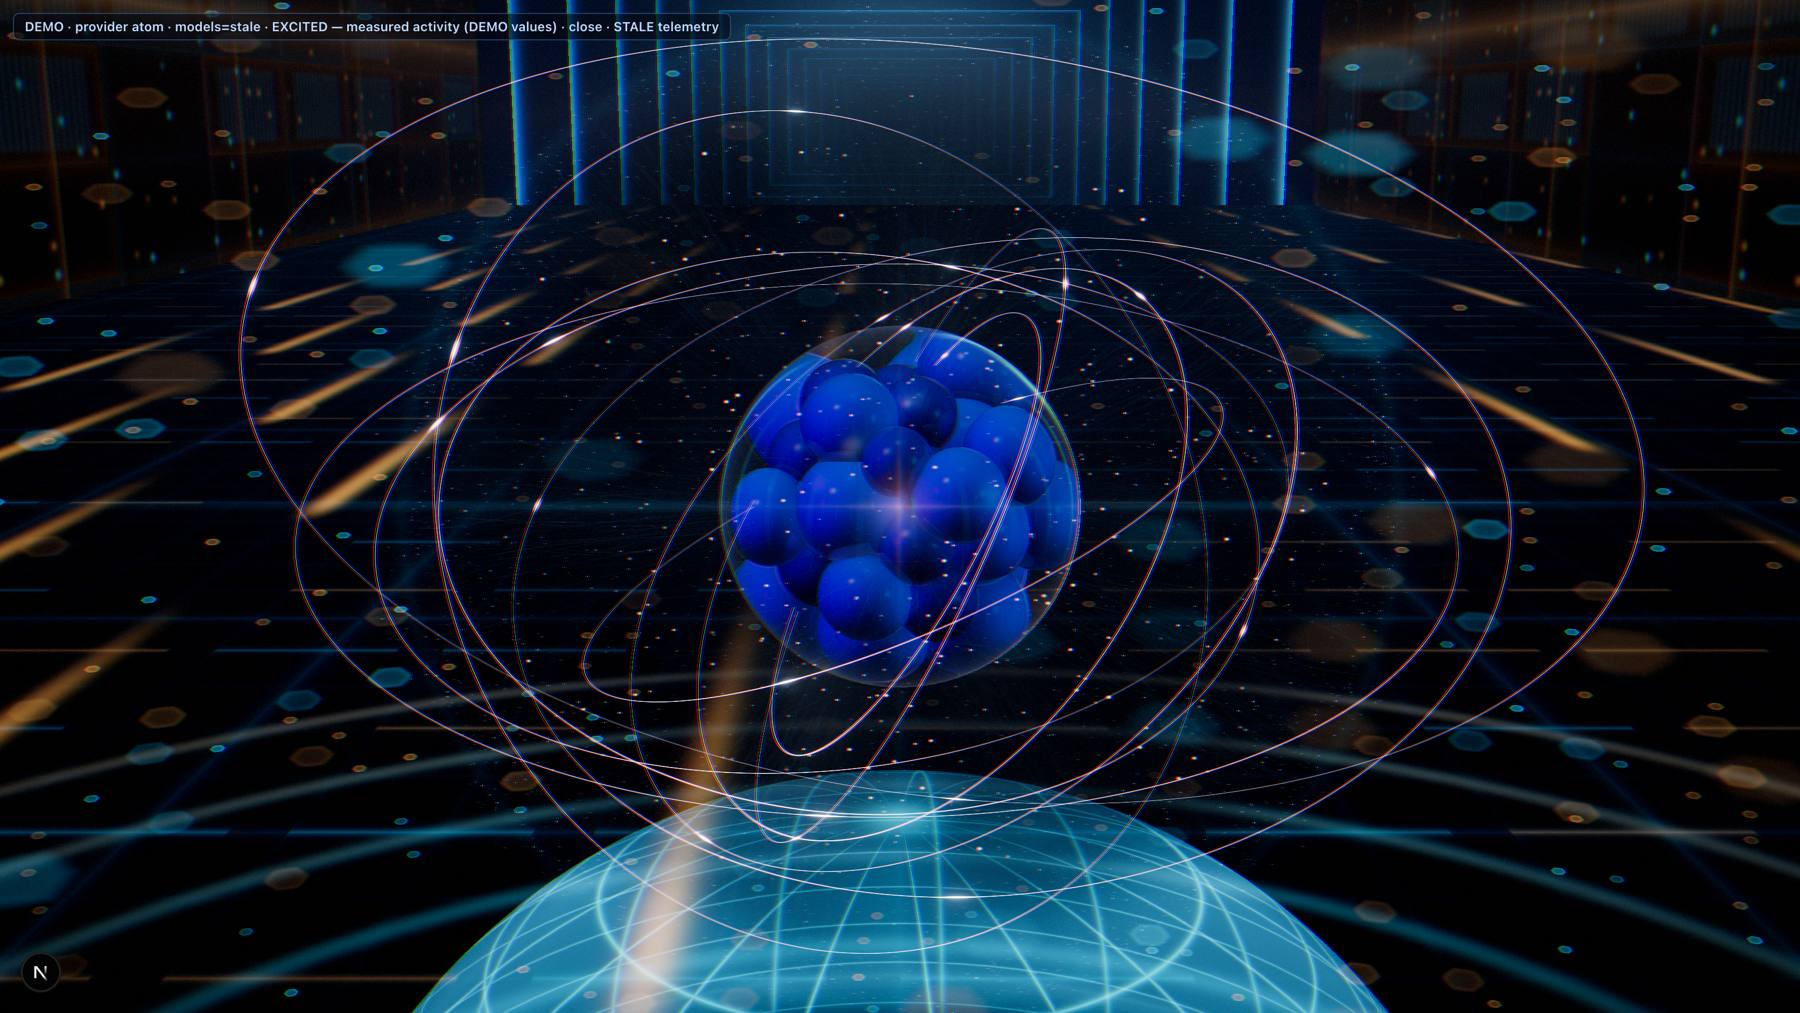
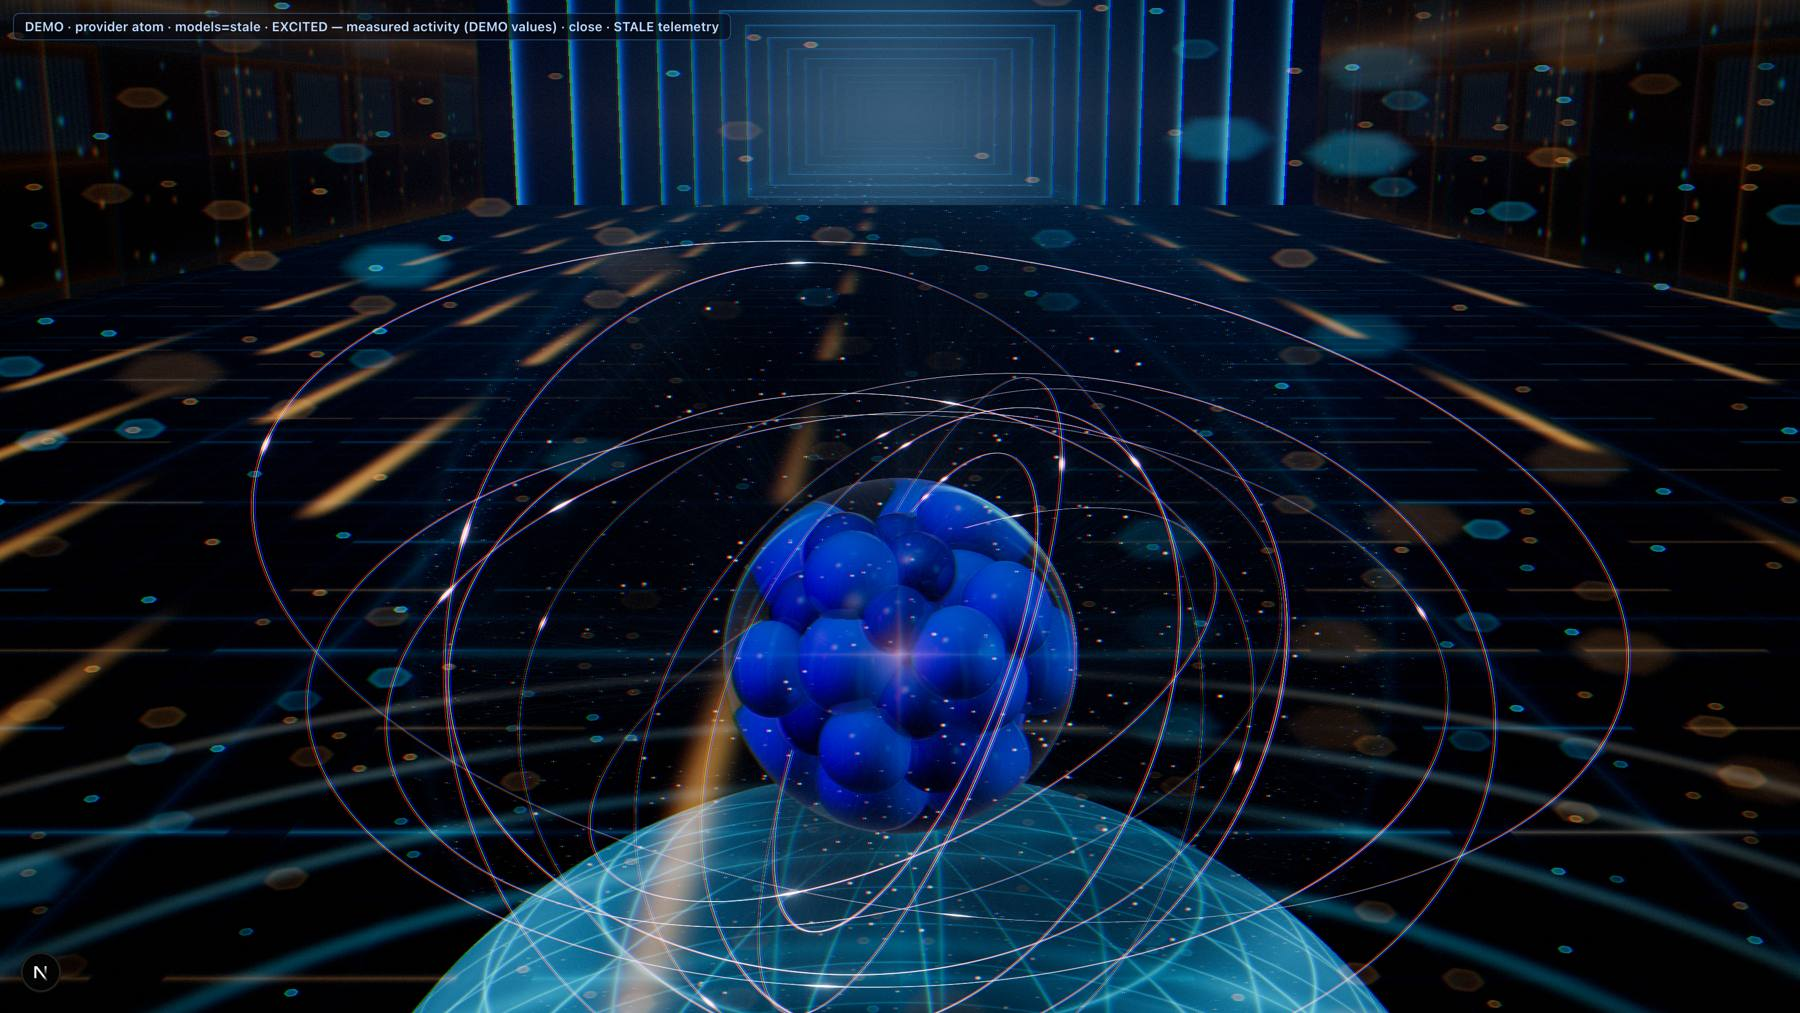
feat(atomic-topology): gate A r11 overdraw-normalised far atoms, seated idle cloud
Addresses gateA-r2 (round-3 pass) findings:
1. Excited wash in pair / 20 / 32-atom frames: projected-size "crowd"
   normaliser on strands (linear), motes (squared), wires and core glow;
   trimmed far gains. Default and close views unchanged (crowd = 1).
2. Idle cloud floated above its dome: group y lowered by the radius the
   tightened cloud gives up, seating it on the pedestal.
3. 32-atom p95/p99 tail recorded as blocking Gate B task C7a (draw
   batching) in plan.md.
4. GATE_A.md re-scored on r11 images (6 rows) with idea5 side-by-sides,
   incl. idle-vs-excited, count20, count32.

Ran: node --import tsx/esm --test tests/unit/atomic-topology/*.test.ts:
437 tests, 436 pass, 0 fail, 1 skipped; typecheck:core 0 atomic-topology
errors (45 pre-existing elsewhere); lint 7 pre-existing errors outside
plugin; 21/21 captures ok (M5 Max, headed Chrome, WebGPU apple/metal-3,
WebGL2 fallback); uncapped p50/p95/p99: default 2.7/3.1/11.9, close
8.1/8.5/26.5, 20 atoms 8.0/11.2/43.9, 32 atoms 11.2/30.3/67.1 ms.

diff --git a/src/plugins/atomic-topology/scene/rt/rtAtom.ts b/src/plugins/atomic-topology/scene/rt/rtAtom.ts
@@ -133,6 +133,7 @@ export function createRtAtom(
   const wiresDef: OrbitWire[] = orbitWires(seed, opts.wireCount ?? 11);
   const group = new Group();
   group.position.set(...opts.position);
+  const seatBaseY = opts.position[1];
 
   const uniforms = createAtomUniforms();
   const material = createAtomMaterial(uniforms);
@@ -433,7 +434,6 @@ export function createRtAtom(
   const viewDir = new Vector3();
 
   function update(f: RtAtomFrame): void {
-    group.getWorldPosition(worldCenter);
     const params = clampShaderParams({
       marchSteps: f.marchSteps,
       exposure: 1,
@@ -445,6 +445,11 @@ export function createRtAtom(
       orbitalWeights: orbitals.map((o) => o.weight),
       phase: f.phase,
     });
+    // Seat the (smaller, idle) cloud on its pedestal: the full-size cloud's base
+    // is the reference, so a tightened cloud drops by the radius it gave up.
+    group.position.y = seatBaseY - (CLOUD_BOUND_RADIUS - params.cloudRadius);
+    group.updateMatrixWorld(true);
+    group.getWorldPosition(worldCenter);
     f.camera.matrixWorld.extractBasis(camRight, camUp, tmp);
     // Nucleus spin (measured-TPS driven by the caller; static when 0).
     rot.setFromAxisAngle(axis, f.spinAngle);
@@ -467,6 +472,9 @@ export function createRtAtom(
     }
     const dist = f.camera.position.distanceTo(worldCenter);
     const cr = params.cloudRadius;
+    // Projected size vs the default single-atom view (dist 255 at full radius):
+    // hairline/mote overlap per pixel grows as the atom shrinks on screen.
+    const crowd = Math.min(1, Math.max(0.15, 255 / CLOUD_BOUND_RADIUS / (dist / cr)));
     // Close range: bolts/streak back off so they never dominate the frame.
     const farK = Math.min(1, Math.max(0, (dist / cr - 3.2) / 3.3));
     const closeK = Math.min(
@@ -511,7 +519,11 @@ export function createRtAtom(
     (wireU.scale as any).value = (params.cloudRadius / CLOUD_BOUND_RADIUS) * 1.18;
     (wireU.pxScale as any).value = pxScale;
     (wireU.time as any).value = f.phase * 2.2;
-    (wireU.energy.value as Vector3).set(0.35 + 0.9 * params.brightness, params.saturation, 0);
+    (wireU.energy.value as Vector3).set(
+      (0.35 + 0.9 * params.brightness) * crowd,
+      params.saturation,
+      0
+    );
     (wireU.occluderCenter.value as Vector3).copy(worldCenter);
     (wireU.tint.value as Vector3).copy(uniforms.rim.value as Vector3);
     let eIdx = 0;
@@ -530,6 +542,7 @@ export function createRtAtom(
     (strandU.center.value as Vector3).copy(worldCenter);
     (strandU.cloudR as any).value = cr;
     (strandU.far as any).value = farK;
+    (strandU.crowd as any).value = crowd;
     (strandU.rootR as any).value = Math.min(0.4, (nucExtent * 0.8) / cr);
     (strandU.pxScale as any).value = pxScale;
     (strandU.energy.value as Vector3).set(params.excitation, params.saturation, params.brightness);
@@ -544,7 +557,8 @@ export function createRtAtom(
     // Quad sized to the visible band only (fill cost: it is additive over MSAA HDR).
     streak.scale.set(cr * 6, cr * 0.16, 1);
     glow.scale.set(cr * 0.62, cr * 0.62, 1);
-    glowK.value = (0.3 + 1.3 * params.excitation) * params.brightness * (1 + 0.8 * farK);
+    glowK.value =
+      (0.3 + 1.3 * params.excitation) * params.brightness * (1 + 0.3 * farK) * Math.sqrt(crowd);
     ring.scale.set((2 * reach * cr) / 0.9, (2 * reach * cr) / 0.9, 1);
     ringK.value = (0.3 + 0.7 * params.excitation) * params.brightness;
     // Decorative differential swirl: rate rises with energy, never encodes

diff --git a/src/plugins/atomic-topology/scene/shaders/plasmaStrands.ts b/src/plugins/atomic-topology/scene/shaders/plasmaStrands.ts
@@ -99,6 +99,7 @@ export function createStrandUniforms(): StrandUniforms {
     swirl: uniform(0),
     lifeOn: uniform(1),
     far: uniform(0),
+    crowd: uniform(1),
   };
 }
 
@@ -283,11 +284,12 @@ export function createStrandMaterial(u: StrandUniforms, mirror = false): MeshBas
     // Bright cyan tip cap: strand ends form the luminous silhouette of the cloud.
     const tipCap = smoothstep(0.84, 0.97, tV).mul(1.8).add(1);
     const k = float(0.2)
-      .add(exc.mul(0.9))
+      .add(exc.mul(0.45))
       .mul(gmV.mul(0.8).add(0.2))
       .mul(tipCap)
       .mul(bri)
-      .mul((u.far as any).mul(2.6).add(1))
+      .mul((u.far as any).mul(1.2).add(1))
+      .mul(u.crowd as any)
       .mul(flick.mul(0.55).add(0.45).add(pulse))
       .mul(fade)
       .mul(depth)
@@ -350,7 +352,8 @@ export function createSparkleMaterial(u: StrandUniforms): MeshBasicNodeMaterial 
       .mul(bri)
       .mul(vis)
       .mul(mix(float(5.5), float(16), kindV))
-      .mul((u.far as any).mul(1.3).add(1));
+      .mul((u.far as any).mul(0.5).add(0.8))
+      .mul((u.crowd as any).mul(u.crowd as any));
     return vec4(grade(col, sat).mul(k), 1);
   })();
   return finish(material);

diff --git a/scripts/ad-hoc/atomic-gateA-compose.py b/scripts/ad-hoc/atomic-gateA-compose.py
@@ -8,7 +8,7 @@ ref = Image.open(sys.argv[2]).convert("RGB")
 pairs = {"default-3c": "gateA-provider-default-3c", "close-3c": "gateA-provider-close-3c",
          "hub-close": "gateA-hub-close", "hub-default": "gateA-hub-default",
          "idle-vs-excited": "gateA-idle-vs-excited", "az90": "gateA-3c-az90",
-         "unknown-close": "gateA-provider-close-unknown", "webgl2": "gateA-webgl2-fallback"}
+         "unknown-close": "gateA-provider-close-unknown", "webgl2": "gateA-webgl2-fallback", "count20": "gateA-count20", "count32": "gateA-count32"}
 os.makedirs(f"{d}/preview", exist_ok=True)
 for k, src in pairs.items():
     im = Image.open(f"{d}/{src}.png").convert("RGB")

diff --git a/OR_ATOM_010_RAYTRACED/GATE_A.md b/OR_ATOM_010_RAYTRACED/GATE_A.md
@@ -23,6 +23,38 @@ Capture (headed Chrome, real GPU, never headless): `scripts/ad-hoc/pw-atomic-gat
 - Post (`rendererFactory.ts`): HDR scene pass, bloom (threshold 1.0), edge RGB shift, split-tone grade, vignette, grain, ACES + sRGB. Full retina DPR, no cap, hardware MSAA (`antialias: true`).
 - Pure models, unit tested: `energyState.ts` (idle = lower energy state: brightness/saturation floor 0.35, tighter cloud 0.8x, slow decorative drift, no spin and no bolts unless measured), `shaderParams.ts` (bounds), `nucleonPack.ts` (packs the production `buildNucleusCluster` into 24+10 / 40+16 packed nucleons), `orbitalDensity.ts`, `boltGeometry.ts`, `rt/rtRegistry.ts` (disposal).
 
+## Round 11 (response to gateA-r2.md round-3 pass, HEAD b448e6bfa) — current state, supersedes older scorecards
+
+Changes:
+
+1. Excited wash (pair frame, 20/32 atoms). The root cause was overdraw, not exposure. Each atom draws about 2600 hairline strands, 3400 motes and 11 wires at a minimum of about 1 px. When the atom is smaller on screen than in the default single view (pair at dist 400, grid at dist about 1400), the same lines pile up on fewer pixels and add up to white. The r10 `far` gain then multiplied that. New `crowd` factor (`rtAtom.ts`): projected size relative to the default single view, `clamp(255/CLOUD_BOUND_RADIUS / (dist/cr), 0.15, 1)`. It scales strand gain (linear, because line overlap grows as 1/radius), mote gain (squared, because dot overlap grows as 1/radius²), wire brightness, and the core glow (sqrt). `far` gains were also trimmed: strand 2.6 to 1.2, strand base excitation 0.9 to 0.45, motes 1.3 to 0.5 over a 0.8 base, glow 0.8 to 0.3. Crowd is 1 at the default and close views, so those frames keep their density.
+2. Idle atom floating. The idle cloud is 0.8x the full radius, but its centre stayed at the full-size height, so it hovered above the dome. Each frame the group's y is now lowered by `CLOUD_BOUND_RADIUS - cloudRadius`, which puts the bottom of the cloud at the same pedestal height as the excited atom's.
+3. 32-atom tail. p50 meets the targets. The p95/p99 `writeBuffer` stalls (about 28 render objects per atom) are now a **blocking Gate B task** in the plan: C7a, batch per-atom draws into instanced and shared-uniform-buffer passes. Gate B cannot pass with 32-atom p95 over 16.7 ms.
+
+Captures: all 19 Gate A conditions plus `gateA-count20` / `gateA-count32` were regenerated in headed Chrome on the M5 Max with WebGPU (adapter apple/metal-3). `gateA-webgl2-fallback` uses the WebGL2 backend. Side-by-sides with idea5 are `preview/sidebyside-idea5-{default-3c,close-3c,idle-vs-excited,count20,count32,hub-default,hub-close,az90,unknown-close,webgl2}.jpg`. Live frame pairs are `preview/live_r11-*.jpg`.
+
+Uncapped frame times (`UNCAPPED=1 pw-atomic-gateA-live.mjs`, rAF deltas, 3344x1882 DPR 2, MSAA + bloom, load average about 10 from background processes):
+
+| case                  | p50     | p95     | p99     | fps (p50)                                |
+| --------------------- | ------- | ------- | ------- | ---------------------------------------- |
+| default single        | 2.7 ms  | 3.1 ms  | 11.9 ms | ~370                                     |
+| close-up              | 8.1 ms  | 8.5 ms  | 26.5 ms | ~123                                     |
+| 20 atoms (`count=20`) | 8.0 ms  | 11.2 ms | 43.9 ms | ~125 (target ~120 met)                   |
+| 32 atoms (`count=32`) | 11.2 ms | 30.3 ms | 67.1 ms | ~89 (>=60 met at p50; tail = Gate B C7a) |
+
+Scorecard, round 11. These are self-scored on the r11 images, worst of default and close per row. The reviewer scores independently.
+
+| row                                     | default | close | evidence                                                                                                                  |
+| --------------------------------------- | ------- | ----- | ------------------------------------------------------------------------------------------------------------------------- |
+| Nucleons (distinct model colours, glow) | 4       | 5     | `close-3c`: green, blue and magenta glowing balls. Hub is deep red/violet.                                                |
+| Electron cloud and orbits               | 4       | 4     | Filled violet body, cyan sparkle rim, 11 looping wires. The pair excited atom stays violet.                               |
+| Filaments and discharges                | 4       | 4     | Dense hairlines plus lane-hued fractal bolts (`close-3c`, `default-3c`).                                                  |
+| Lighting, depth, bloom without washout  | 4       | 4     | The pair, count20 and count32 no longer wash to white: bodies stay violet/pink with a cyan rim.                           |
+| Resemblance to idea5                    | 4       | 4     | Dome, rim, flare, motes and orbit loops (`sidebyside-idea5-default-3c`, `-idle-vs-excited`).                              |
+| Immersion / sense of place              | 4       | 4     | Corridor, floor reflections, orange streaks, ripple rings, hex bokeh. The room is mostly hidden at close range by design. |
+
+Commands run (round 11, from the worktree): see the commit message.
+
 ## Round 7: changes against gateA-r2 (r6 review)
 
 1. Silhouette and cyan rim: non-loose strands now reach 0.8-1.0 of the cloud with a bright HDR cyan tip cap (tip fade 80% -> 25%); loose strands 22% -> 10%; petal bundles tighter; petal mask sharper with floor 0.05 -> 0.015 (darker voids); sparkles 1400 -> 3400, rim sparkles at 0.8-1.0 radius, brighter (x1.5).
